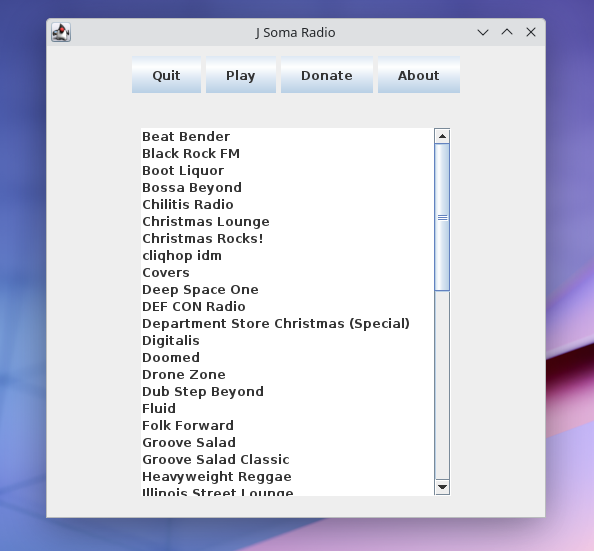
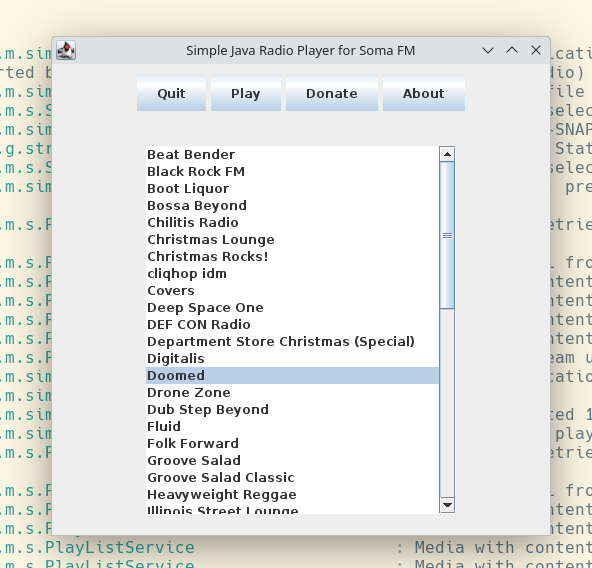
refactor: app name handling

diff --git a/src/main/java/com/mirkoebert/simplejavaradioplayer/Application.java b/src/main/java/com/mirkoebert/simplejavaradioplayer/Application.java
@@ -28,10 +28,12 @@ public class Application extends JFrame {
     private PlayerService playerService;
     private JDialog donationBox;
     private JDialog aboutBox;
+    private String nameAndVersion = "";
 
     public Application() {
+        nameAndVersion = getClass().getPackage().getImplementationTitle() + " " + getClass().getPackage().getImplementationVersion();
         initUI();
-        log.info("Version {}", getClass().getPackage().getImplementationVersion());
+        log.info(nameAndVersion);
         Thread stopPlayerHook = new Thread(() -> playerService.shutDown());
         Runtime.getRuntime().addShutdownHook(stopPlayerHook);
     }
@@ -73,7 +75,7 @@ public class Application extends JFrame {
         JScrollPane jsp = new JScrollPane(stationList);
         createLayout(jsp, quitButton, playButton, donateButton, aboutButton);
 
-        setTitle("Simple Java Radio Player for Soma FM");
+        setTitle(getClass().getPackage().getImplementationTitle());
         setSize(500, 500);
         setLocationRelativeTo(null);
         setDefaultCloseOperation(EXIT_ON_CLOSE);
@@ -106,7 +108,7 @@ public class Application extends JFrame {
         val pane1 = new JOptionPane("Please support Soma FM and go to https://somafm.com/support/", INFORMATION_MESSAGE);
         donationBox = pane1.createDialog(pane, "Donate");
 
-        val pane2 = new JOptionPane("J Soma Radio \nhttps://github.com/mirkoebert/JSomaRadio", INFORMATION_MESSAGE);
+        val pane2 = new JOptionPane(nameAndVersion + "\nhttps://github.com/mirkoebert/JSomaRadio", INFORMATION_MESSAGE);
         aboutBox = pane2.createDialog(pane, "About");
     }
 

diff --git a/README.md b/README.md
@@ -7,7 +7,7 @@ It's a hobby project. It's for me hearing Soma FM where ever I be.
 - Soma Station list configured
 - Inspired from Soma Radio from Alex Kryuchkov
 - Based on goxr3plus Java stream player
-- Resilient against
+- Resilient against broken streams
 
 ![](Screenshot_20241119_221244.png "Screenshot")
 
